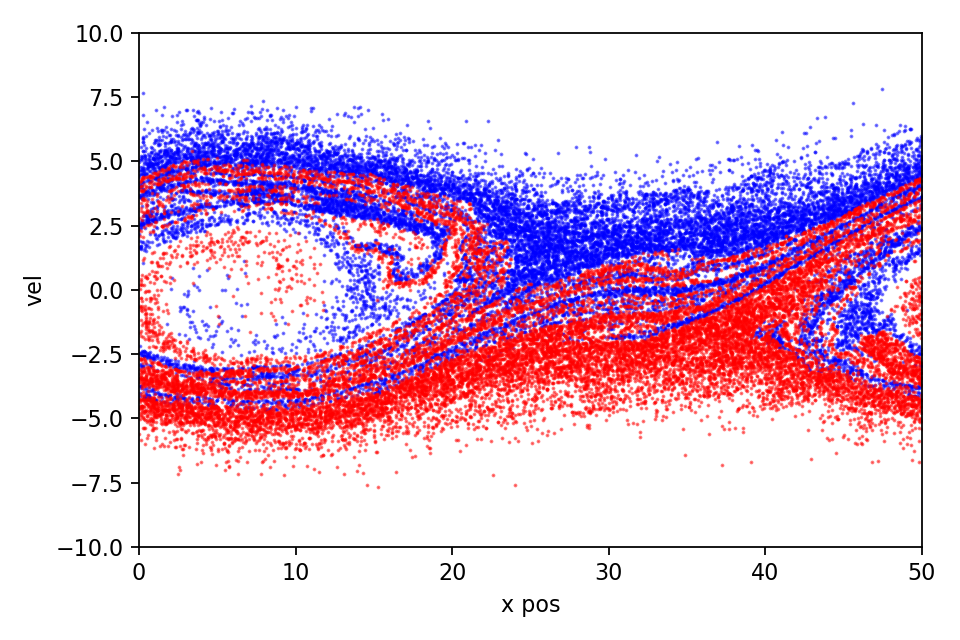
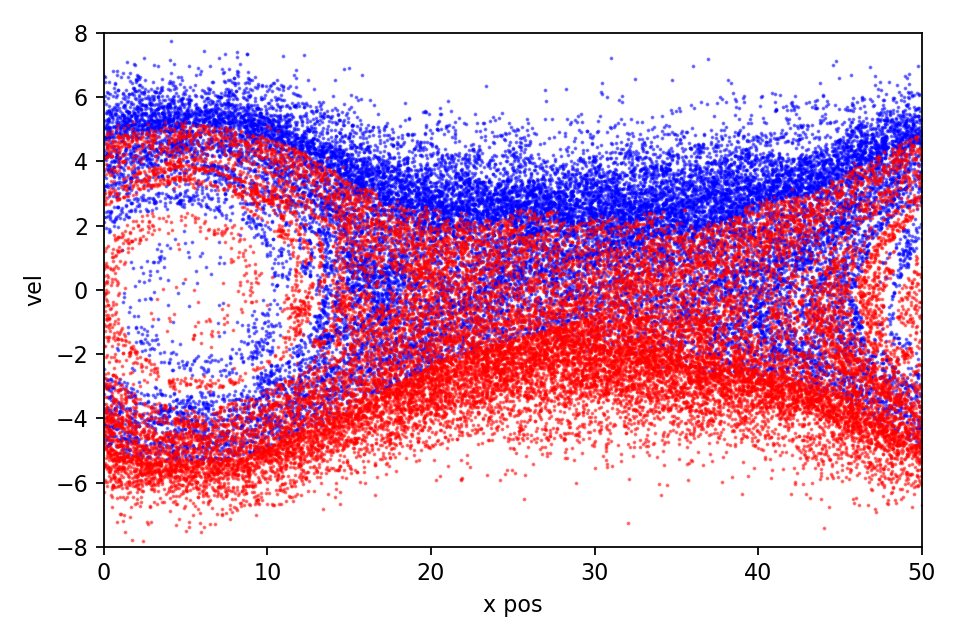
update result

diff --git a/src/solver.py b/src/solver.py
@@ -178,7 +178,7 @@ class PICsolver:
         plt.xlabel("x pos")
         plt.ylabel("vel")
         plt.xlim([0,self.L])
-        plt.ylim([-10, 10])
+        plt.ylim([-8, 8])
         plt.tight_layout()
         plt.savefig("./result/PIC.png", dpi=160)
         print("# Computation process end")
@@ -186,6 +186,10 @@ class PICsolver:
         if self.use_animation:
             print("# Generating animation file")
             fig, ax = plt.subplots(1,1,figsize = (6,4), facecolor = 'white', dpi=160)
+            
+            idx_h = int(len(pos_list) / 2)
+            pos_list = pos_list[idx_h:]
+            vel_list = vel_list[idx_h:]
             
             def _plot(idx : int, ax:Axes):
                 pos = pos_list[idx]
@@ -198,10 +202,10 @@ class PICsolver:
                 ax.set_xlabel("x pos")
                 ax.set_ylabel("vel")
                 ax.set_xlim([0,self.L])
-                ax.set_ylim([-10, 10])
-
+                ax.set_ylim([-8, 8])
+            
             replay = lambda idx : _plot(idx, ax)
-            idx_max = int((self.tmax - self.tmin) / self.dt)
+            idx_max = len(pos_list) - 1
             indices = [i for i in range(idx_max)]
             ani = animation.FuncAnimation(fig, replay, frames = indices)
             writergif = animation.PillowWriter(fps = self.plot_freq)

diff --git a/main.py b/main.py
@@ -3,10 +3,10 @@ from src.solver import PICsolver
 
 def parsing():
     parser = argparse.ArgumentParser(description="PIC code for plasma simulation: 1D ")
-    parser.add_argument("--num_particle", type = int, default = 40000)
-    parser.add_argument("--num_mesh", type = int, default = 400)
+    parser.add_argument("--num_particle", type = int, default = 50000)
+    parser.add_argument("--num_mesh", type = int, default = 500)
     parser.add_argument("--t_min", type = float, default = 0)
-    parser.add_argument("--t_max", type = float, default = 50)
+    parser.add_argument("--t_max", type = float, default = 100)
     parser.add_argument("--dt", type = float, default = 1)
     parser.add_argument("--L", type = float, default = 50)
     parser.add_argument("--n0", type = float, default = 1.0)

diff --git a/README.md b/README.md
@@ -7,8 +7,6 @@ This is a github repository of python code for 1D Two-stream instability based o
 <div>
     <p float = 'left'>
         <img src="/result/PIC.png"  width="360" height="240">
-    </p>
-    <p float = 'left'>
         <img src="/result/simulation.gif"  width="360" height="240">
     </p>
 </div>
